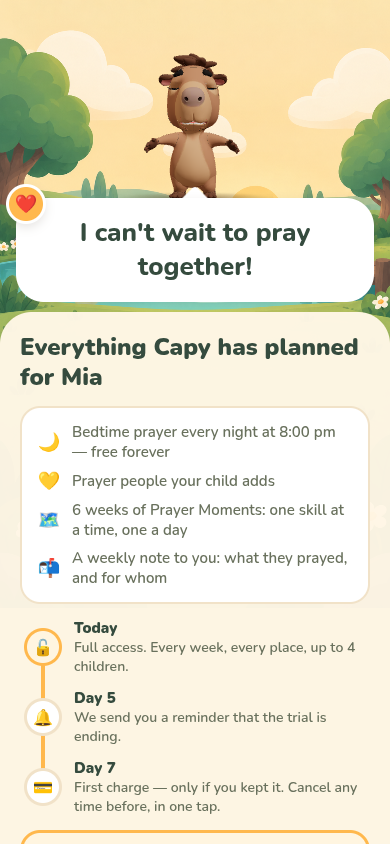
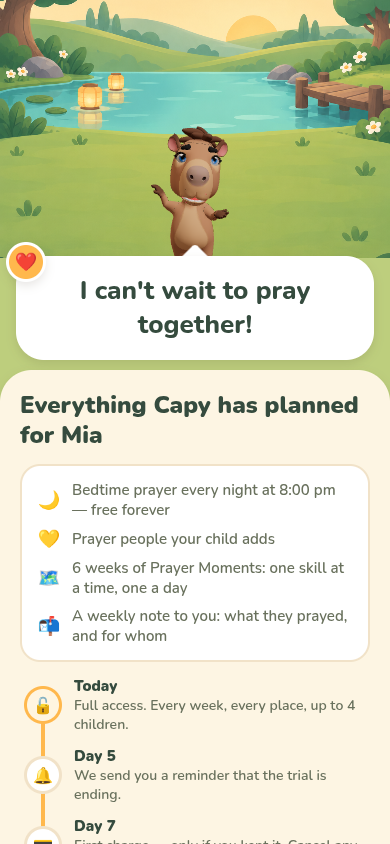
Keep Capy on the ground behind a tall sheet
The painted meadow is 72 % of the screen tall with the pond across its middle, so a sheet that covers most of the
screen leaves only sky and water above it, and Capy framed in that band stood on the pond: the grown-up handoff,
the offer, Places and the Pond all had him in the water.

useStageInsets now notices a sheet past 60 % of the screen and does what the trail lobby already did: scales the
scene to the space above the sheet, so the art's grass ends right above it, and frames Capy in the lower part of
that scene with his feet on the ground. Home and lessons keep their framing. The offer gets a taller stage and its
bubble sits a touch lower, so his feet and shadow clear it.

Claude-Session: https://claude.ai/code/session_01GLmWNA28TiPHMsjoPcsDHD

diff --git a/apps/mobile/src/ui/useStageInsets.ts b/apps/mobile/src/ui/useStageInsets.ts
@@ -1,18 +1,43 @@
 import { useCallback, useEffect } from "react";
 import { useWindowDimensions, type LayoutChangeEvent } from "react-native";
-import { useAvatar } from "@/avatar/AvatarView";
+import { useAvatar, useStage } from "@/avatar/AvatarView";
 
-/** Attach `onLayout` to the bottom UI block; Capy gets framed in the band above it. */
+/** Past this share of the screen under the sheet, the band above it is sky and water: Capy would stand on the pond. */
+const TALL_SHEET = 0.6;
+
+/**
+ * Attach `onLayout` to the bottom UI block; Capy gets framed in the band above it.
+ *
+ * The painted meadow is 72 % of the screen tall, its water across the middle. A sheet that covers most of the
+ * screen leaves only the top of the art, and Capy framed there stands on the water. Behind a tall sheet the scene
+ * is scaled to the space above it instead — the art's grass then ends right above the sheet — and Capy is framed in
+ * the lower part of that scene, feet on the ground: the same move the trail lobby makes. Screens with a normal
+ * sheet (home, lessons) keep their framing. The scene height is cleared on unmount.
+ */
 export function useStageInsets(top = 0.12) {
   const avatar = useAvatar();
+  const { setStage } = useStage();
   const { height } = useWindowDimensions();
   const onLayout = useCallback(
     (e: LayoutChangeEvent) => {
-      const bottom = Math.min(0.75, e.nativeEvent.layout.height / height + 0.02);
-      avatar.send({ type: "viewport", top, bottom });
+      const covered = e.nativeEvent.layout.height / height;
+      if (covered > TALL_SHEET) {
+        const scene = Math.max(220, height - e.nativeEvent.layout.height + 22);
+        setStage({ sceneHeight: scene });
+        avatar.send({ type: "viewport", top: (scene * 0.42) / height, bottom: 1 - (scene * 0.9) / height });
+        return;
+      }
+      setStage({ sceneHeight: undefined });
+      avatar.send({ type: "viewport", top, bottom: Math.min(0.75, covered + 0.02) });
     },
-    [avatar, height, top],
+    [avatar, height, top, setStage],
   );
-  useEffect(() => () => avatar.send({ type: "viewport", top, bottom: 0.45 }), [avatar, top]);
+  useEffect(
+    () => () => {
+      setStage({ sceneHeight: undefined });
+      avatar.send({ type: "viewport", top, bottom: 0.45 });
+    },
+    [avatar, top, setStage],
+  );
   return onLayout;
 }

diff --git a/apps/mobile/app/parent/paywall.tsx b/apps/mobile/app/parent/paywall.tsx
@@ -49,7 +49,7 @@ export default function Paywall() {
     <View style={styles.root}>
       <View style={styles.stage} pointerEvents="none" />
       <View onLayout={onBottomLayout} style={styles.bottom}>
-        <SpeechBubble text={P.paywall.capyLine} audio="pw_hello.mp3" badge="heart" />
+        <View style={styles.bubble}><SpeechBubble text={P.paywall.capyLine} audio="pw_hello.mp3" badge="heart" /></View>
         <ScrollView style={styles.card} contentContainerStyle={styles.cardContent} bounces={false}>
           <Text style={styles.title}>{P.paywall.title(name)}</Text>
 
@@ -153,8 +153,9 @@ function PlanOption({ selected, onPress, title, price, note, badge }: { selected
 
 const styles = StyleSheet.create({
   root: { flex: 1 },
-  stage: { height: 190 },
+  stage: { height: 236 },
   bottom: { flex: 1 },
+  bubble: { paddingTop: 12 },
   card: { flex: 1, marginTop: 10, backgroundColor: "rgba(255,247,230,0.97)", borderTopLeftRadius: 32, borderTopRightRadius: 32, ...T.shadow },
   cardContent: { padding: 20, paddingBottom: 40, gap: 14 },
   title: { fontFamily: T.font.black, fontSize: 24, color: T.color.ink, lineHeight: 30 },
